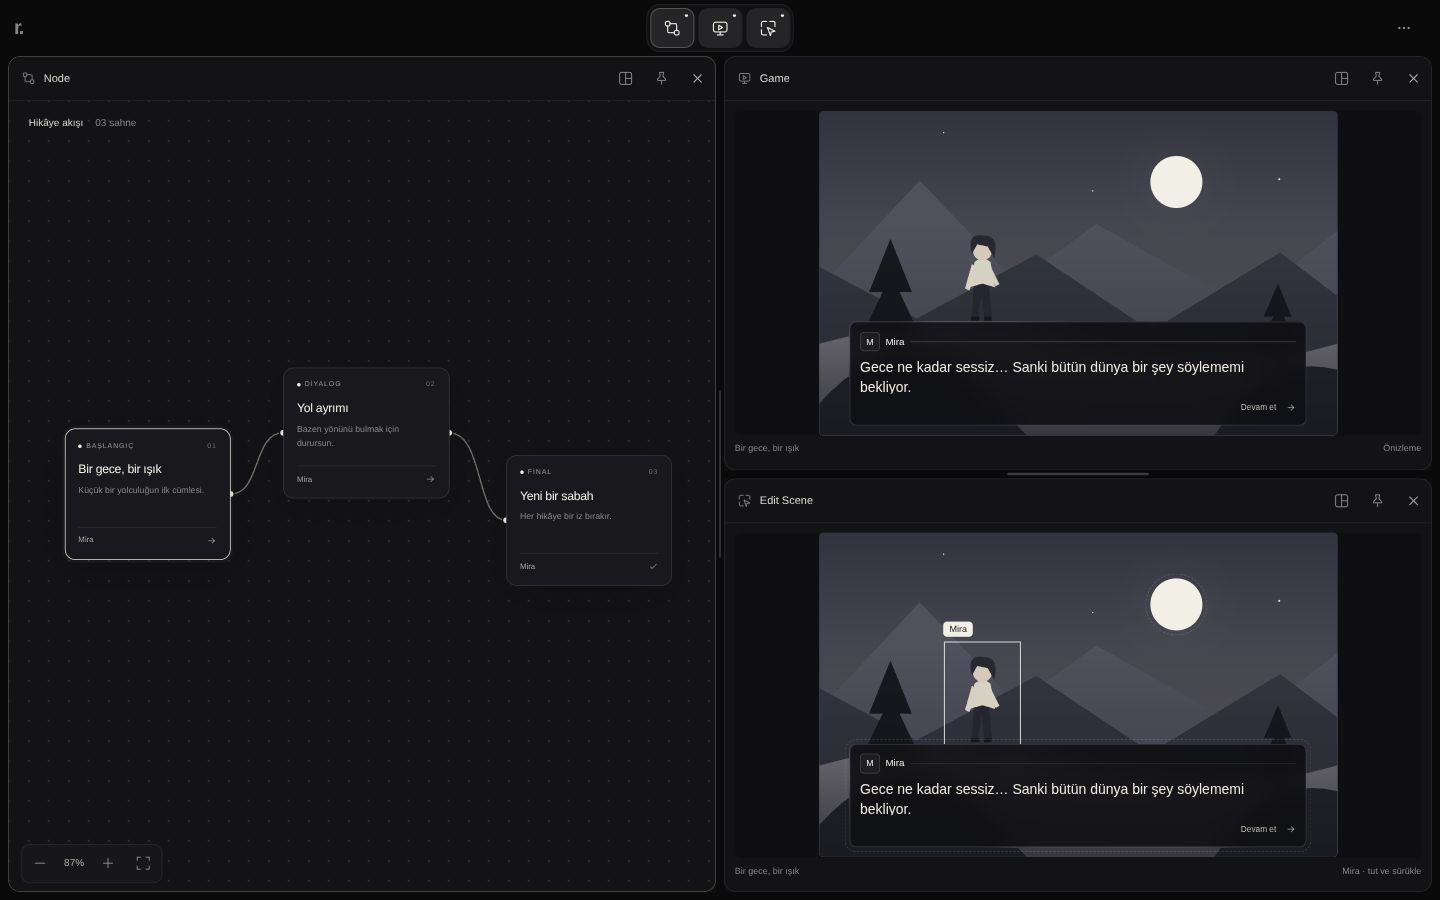
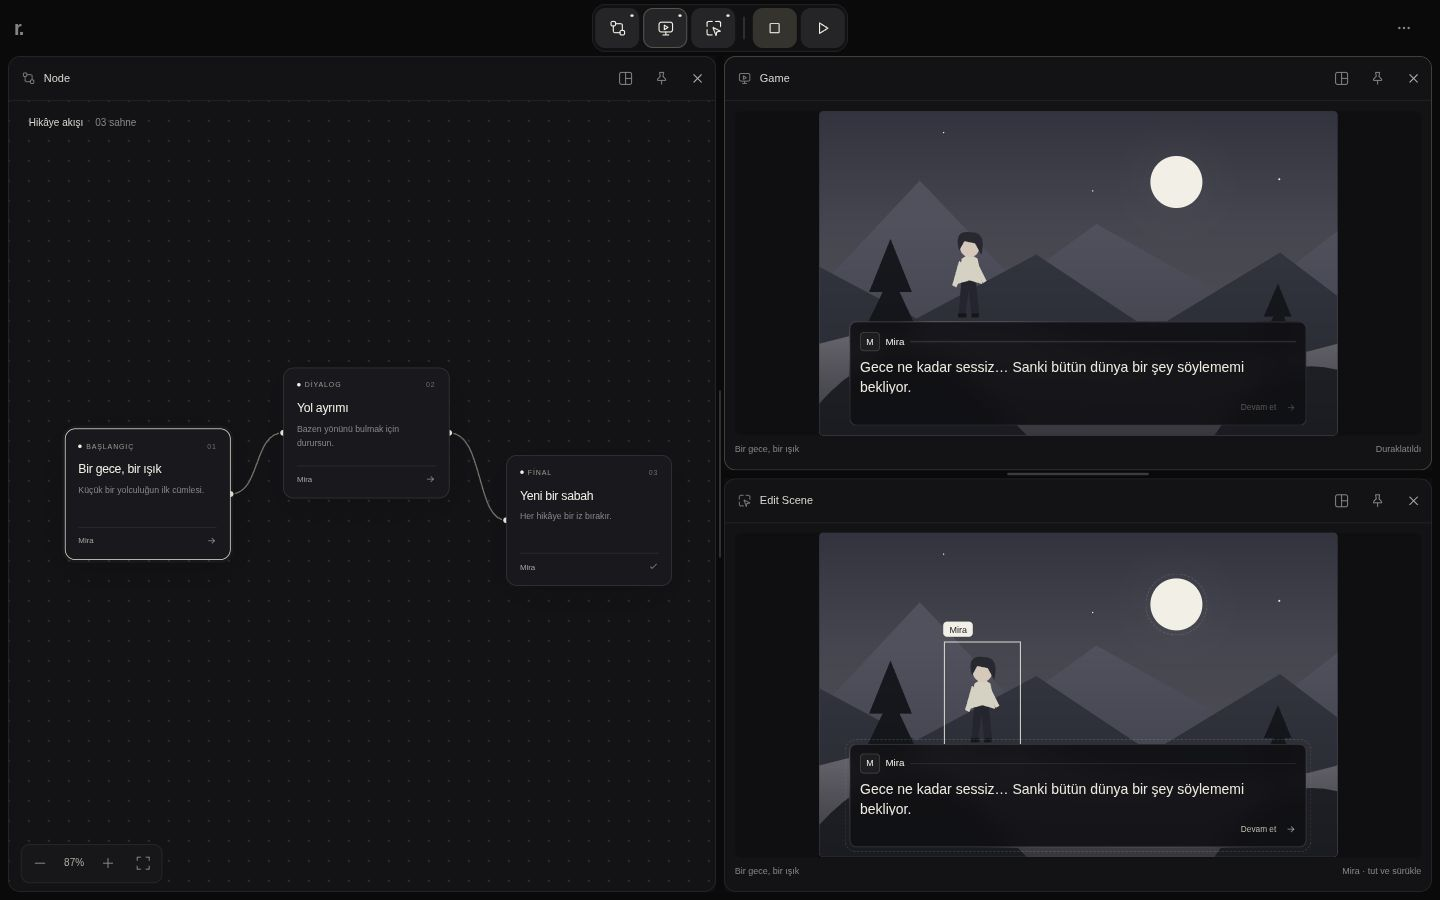
Add workspace toggles and start pause stop preview controls

Changed region(s): [[0.4062, 0.0, 0.5, 0.0622], [0.5312, 0.0, 0.5938, 0.0622], [0.6562, 0.2489, 0.6875, 0.3422]]

diff --git a/prototypes/editor-workspace/app.js b/prototypes/editor-workspace/app.js
@@ -1,5 +1,6 @@
-import { initialState, focusView, openView, closeView, togglePin, setCapacity } from './workspace-state.mjs';
+import { initialState, focusView, openView, closeView, toggleView, togglePin, setCapacity } from './workspace-state.mjs';
 import { initialLayout, syncLayout, dockView, resizeSplit } from './layout-state.mjs';
+import { initialPlayback, startPlayback, togglePause, advancePlayback, playbackFrame } from './playback-state.mjs';
 
 const names = { node: 'Node', game: 'Game', edit: 'Edit Scene' };
 const defaults = [
@@ -12,6 +13,7 @@ const objectNames = { moon: 'Ay', character: 'Mira', dialogue: 'Diyalog' };
 const newScenes = () => defaults.map(scene => ({ ...scene, objects: structuredClone(baseObjects) }));
 let scenes = newScenes(), sceneIndex = 0, selectedObject = 'character';
 let state = initialState(), layout = initialLayout(), zoom = 1, toastTimer, gesture = null, placementView = null;
+let playback = initialPlayback(), playbackSceneIndex = 0, lastFrameTime = null;
 const workspace = document.querySelector('#workspace'), dockRoot = document.querySelector('#dock-root');
 const placement = document.querySelector('#placement-menu'), options = document.querySelector('#options-menu');
 const panels = new Map();
@@ -52,7 +54,8 @@ function updateControls() {
   document.querySelectorAll('[data-view]').forEach(button => {
     const view = button.dataset.view, open = state.visible.includes(view), pinned = state.pinned.includes(view);
     button.setAttribute('aria-pressed', String(open));
-    button.setAttribute('aria-label', `${names[view]} ekranı${open ? ', açık' : 'nı aç'}${pinned ? ', sabit' : ''}`);
+    button.setAttribute('aria-label', `${names[view]} ekranını ${open ? 'kapat' : 'aç'}${pinned ? ', sabit' : ''}`);
+    button.title = `${names[view]} · ${open ? 'kapat' : 'aç'}`;
     button.classList.toggle('focused', state.focused === view);
   });
   document.querySelectorAll('[data-capacity]').forEach(button => button.setAttribute('aria-pressed', String(Number(button.dataset.capacity) === state.capacity)));
@@ -63,6 +66,17 @@ function updateControls() {
     pin.setAttribute('aria-label', `${names[view]} penceresinin ${pinned ? 'sabitlemesini kaldır' : 'yerini sabitle'}`);
     pin.title = pinned ? 'Sabitlemeyi kaldır' : 'Pencereyi sabitle';
   }
+  const running = playback.status !== 'stopped', paused = playback.status === 'paused';
+  const play = document.querySelector('#play-toggle'), pause = document.querySelector('#pause-toggle');
+  play.setAttribute('aria-label', running ? 'Oyunu kapat' : 'Oyunu başlat');
+  play.title = running ? 'Oyunu kapat' : 'Oyunu başlat';
+  play.classList.toggle('is-running', running);
+  play.querySelector('use').setAttribute('href', running ? '#i-stop' : '#i-play');
+  pause.disabled = !running;
+  pause.setAttribute('aria-pressed', String(paused));
+  pause.setAttribute('aria-label', paused ? 'Oyuna devam et' : 'Oyunu duraklat');
+  pause.title = paused ? 'Oyuna devam et' : 'Oyunu duraklat';
+  pause.querySelector('use').setAttribute('href', paused ? '#i-play' : '#i-pause');
 }
 function focus(view) { state = focusView(state, view); updateControls(); }
 function treeElement(tree) {
@@ -86,19 +100,24 @@ function render() {
   document.querySelector('#empty-state').hidden = state.visible.length > 0;
   if (active && active !== document.body && active.isConnected) active.focus({ preventScroll: true });
 }
-function updateScene() {
-  const scene = scenes[sceneIndex];
-  for (const view of ['game', 'edit']) {
+function paintScene(view, scene) {
     const panel = panels.get(view);
     panel.querySelector('.scene-title').textContent = scene.title;
     panel.querySelector('.speaker-name').textContent = 'Mira'; panel.querySelector('.dialogue-text').textContent = scene.dialogue;
-    panel.querySelector('.scene-help').textContent = view === 'edit' ? `${objectNames[selectedObject]} · tut ve sürükle` : 'Önizleme';
+    panel.querySelector('.scene-help').textContent = view === 'edit' ? `${objectNames[selectedObject]} · tut ve sürükle` : { stopped:'Önizleme', playing:'Çalışıyor', paused:'Duraklatıldı' }[playback.status];
+    if (view === 'game') {
+      panel.dataset.playback = playback.status;
+      panel.querySelector('[data-continue]').disabled = playback.status === 'paused';
+    }
     for (const [name, object] of Object.entries(scene.objects)) {
       const el = panel.querySelector(`[data-object="${name}"]`);
       el.style.left = `${object.x}%`; el.style.top = `${object.y}%`; el.style.width = `${object.w}%`; el.style.height = `${object.h}%`;
       el.classList.toggle('selected', view === 'edit' && selectedObject === name);
     }
-  }
+}
+function updateScene() {
+  paintScene('game', playbackFrame(playback) ?? scenes[sceneIndex]);
+  paintScene('edit', scenes[sceneIndex]);
   panels.get('node').querySelectorAll('[data-scene]').forEach(node => {
     const index = Number(node.dataset.scene); node.classList.toggle('selected', index === sceneIndex); node.setAttribute('aria-pressed', String(index === sceneIndex));
   });
@@ -209,7 +228,14 @@ workspace.addEventListener('click', event => {
   else if (pin) apply(togglePin(state,pin.dataset.pin));
   else if (menu) showPlacement(menu.dataset.placement,menu);
   else if (node) { sceneIndex = Number(node.dataset.scene); updateScene(); }
-  else if (event.target.closest('[data-continue]') && !event.target.closest('.editable')) { sceneIndex = (sceneIndex+1)%scenes.length; updateScene(); }
+  else if (event.target.closest('[data-continue]') && !event.target.closest('.editable')) {
+    if (playback.status === 'paused') return;
+    if (playback.status === 'playing') {
+      playbackSceneIndex = (playbackSceneIndex+1)%scenes.length;
+      playback = startPlayback(scenes[playbackSceneIndex]); lastFrameTime = null;
+    } else sceneIndex = (sceneIndex+1)%scenes.length;
+    updateScene();
+  }
   else if (zoomButton) { zoom = zoomButton.dataset.zoom==='fit'?1:Math.max(.5,Math.min(2,zoom+(zoomButton.dataset.zoom==='in'?.15:-.15))); fitViews(); }
 });
 workspace.addEventListener('focusin', event => { const panel = event.target.closest('[data-panel]'); if (panel) focus(panel.dataset.panel); });
@@ -227,7 +253,21 @@ workspace.addEventListener('keydown', event => {
     document.querySelector(`[data-divider="${divider.dataset.divider}"]`)?.focus({preventScroll:true});
   }
 });
-document.querySelectorAll('[data-view]').forEach(button => button.addEventListener('click',()=>apply(openView(state,button.dataset.view))));
+document.querySelectorAll('[data-view]').forEach(button => button.addEventListener('click',()=>{ endGesture(true); apply(toggleView(state,button.dataset.view)); }));
+document.querySelector('#play-toggle').addEventListener('click',()=>{
+  endGesture(true);
+  if (playback.status === 'stopped') {
+    const result = openView(state,'game');
+    if (!result.state.visible.includes('game')) { apply(result); return; }
+    playbackSceneIndex = sceneIndex; playback = startPlayback(scenes[sceneIndex]); lastFrameTime = null;
+    apply(result);
+  } else {
+    playback = initialPlayback(); lastFrameTime = null; closeMenus(); updateControls(); updateScene();
+  }
+});
+document.querySelector('#pause-toggle').addEventListener('click',()=>{
+  playback = togglePause(playback); lastFrameTime = null; updateControls(); updateScene();
+});
 document.querySelectorAll('[data-capacity]').forEach(button => button.addEventListener('click',()=>apply(setCapacity(state,Number(button.dataset.capacity)))));
 document.querySelector('#options').addEventListener('click',()=>{ const open=options.hidden; closeMenus(); options.hidden=!open; document.querySelector('#options').setAttribute('aria-expanded',String(open)); });
 placement.addEventListener('click',event=>{
@@ -239,9 +279,18 @@ placement.addEventListener('click',event=>{
 document.addEventListener('pointerdown',event=>{ if (!event.target.closest('.popover,#options,[data-placement]')) closeMenus(); });
 document.addEventListener('keydown',event=>{ if (event.key==='Escape') { endGesture(true); closeMenus(); } });
 document.querySelector('#reset').addEventListener('click',()=>{
-  endGesture(true); scenes=newScenes(); sceneIndex=0; selectedObject='character'; zoom=1; state=initialState(); layout=initialLayout(); closeMenus();
+  endGesture(true); scenes=newScenes(); sceneIndex=0; selectedObject='character'; zoom=1; state=initialState(); layout=initialLayout(); playback=initialPlayback(); lastFrameTime=null; closeMenus();
   panels.get('node').querySelector('.graph-viewport').scrollTop=0; render();
 });
 const observer=new ResizeObserver(fitViews); observer.observe(workspace); observer.observe(panels.get('node').querySelector('.graph-viewport'));
 for (const view of ['game','edit']) observer.observe(panels.get(view).querySelector('.scene-stage-wrap'));
 render();
+function animate(timestamp) {
+  if (playback.status === 'playing' && lastFrameTime !== null) {
+    playback = advancePlayback(playback, Math.min(.1, (timestamp-lastFrameTime)/1000));
+    paintScene('game', playbackFrame(playback));
+  }
+  lastFrameTime = timestamp;
+  requestAnimationFrame(animate);
+}
+requestAnimationFrame(animate);

diff --git a/prototypes/editor-workspace/index.html b/prototypes/editor-workspace/index.html
@@ -14,6 +14,9 @@
     <symbol id="i-edit" viewBox="0 0 24 24"><path d="M10 3H5a2 2 0 0 0-2 2v5m0 4v5a2 2 0 0 0 2 2h5M14 3h5a2 2 0 0 1 2 2v5m-10 1 10 5-5 1-1 5Z"/></symbol>
     <symbol id="i-pin" viewBox="0 0 24 24"><path d="m9 3 6 0-1 6 4 4v2H6v-2l4-4-1-6ZM12 15v6"/></symbol>
     <symbol id="i-close" viewBox="0 0 24 24"><path d="m6 6 12 12M18 6 6 18"/></symbol>
+    <symbol id="i-play" viewBox="0 0 24 24"><path d="m8 5 11 7-11 7Z"/></symbol>
+    <symbol id="i-stop" viewBox="0 0 24 24"><rect x="6" y="6" width="12" height="12" rx="1"/></symbol>
+    <symbol id="i-pause" viewBox="0 0 24 24"><path d="M8 5v14M16 5v14"/></symbol>
     <symbol id="i-arrow" viewBox="0 0 24 24"><path d="M5 12h14m-6-6 6 6-6 6"/></symbol>
     <symbol id="i-plus" viewBox="0 0 24 24"><path d="M12 5v14M5 12h14"/></symbol>
     <symbol id="i-minus" viewBox="0 0 24 24"><path d="M5 12h14"/></symbol>
@@ -33,6 +36,9 @@
       <button class="view-button" data-view="node" aria-label="Node ekranını aç" title="Node"><svg><use href="#i-node"/></svg><i></i></button>
       <button class="view-button" data-view="game" aria-label="Game ekranını aç" title="Game"><svg><use href="#i-game"/></svg><i></i></button>
       <button class="view-button" data-view="edit" aria-label="Edit Scene ekranını aç" title="Edit Scene"><svg><use href="#i-edit"/></svg><i></i></button>
+      <span class="toolbar-divider" aria-hidden="true"></span>
+      <button class="view-button playback-button" id="play-toggle" aria-label="Oyunu başlat" title="Oyunu başlat"><svg aria-hidden="true"><use href="#i-play"/></svg></button>
+      <button class="view-button playback-button" id="pause-toggle" aria-label="Oyunu duraklat" title="Oyunu duraklat" disabled><svg aria-hidden="true"><use href="#i-pause"/></svg></button>
     </nav>
     <button class="icon-button" id="options" aria-label="Çalışma alanı seçenekleri" aria-expanded="false" aria-controls="options-menu" title="Seçenekler"><svg><use href="#i-more"/></svg></button>
     <div class="options-menu popover" id="options-menu" hidden>

diff --git a/prototypes/editor-workspace/style.css b/prototypes/editor-workspace/style.css
@@ -10,3 +10,5 @@
 .panel{container-type:inline-size}.panel-title{flex:1}.panel-actions{display:flex;flex-shrink:0;align-items:center}.panel-actions .icon-button{cursor:pointer}.close-button{color:#b1afa7}.close-button:hover{background:#3a2929;color:#fff}.pin-button[aria-pressed="true"]{color:var(--bone);background:#f2efe60b}.pin-button[aria-pressed="true"] svg{fill:#f2efe625}.empty-state{position:absolute;inset:0;display:flex;flex-direction:column;align-items:center;justify-content:center;gap:14px;color:var(--muted);background:#0e0e10;font-size:12px;pointer-events:none}.empty-state svg{width:26px;height:26px;color:#5c5b57}
 @container(max-width:220px){.panel-actions .pin-button{display:none}}
 @container(max-width:120px){.panel-actions .placement-button{display:none}}
+.toolbar-divider{width:1px;height:22px;background:#37373b;align-self:center;margin:0 4px}.playback-button.is-running{color:var(--bone);background:#34332e}.playback-button:disabled{opacity:.3;cursor:default}.playback-button:disabled:hover{background:transparent}.continue-button:disabled{opacity:.4;cursor:default}
+@media(max-width:360px){.brand-mark{display:none}.app-header{grid-template-columns:1fr 44px}.view-switcher{justify-self:center;gap:2px}.toolbar-divider{margin:0 2px}}

diff --git a/prototypes/editor-workspace/README.md b/prototypes/editor-workspace/README.md
@@ -13,10 +13,19 @@ Tarayıcı: `http://127.0.0.1:4173`.
 
 - **Node:** örnek hikâye akışı ve sahne seçimi.
 - **Game:** oyun sahnesinin önizlemesi.
-- **Edit Scene:** Game ile aynı sahnenin doğrudan düzenlenebilir görünümü. Ay, Mira ve diyalog kutusu tutulup sürüklenebilir; konumları Game'e anında yansır. Seçili obje ok tuşlarıyla da taşınabilir; Shift adımı büyütür.
+- **Edit Scene:** sahnenin doğrudan düzenlenebilir görünümü. Ay, Mira ve diyalog kutusu tutulup sürüklenebilir; oyun çalışmıyorken konumları Game'e anında yansır. Seçili obje ok tuşlarıyla da taşınabilir; Shift adımı büyütür.
 
 Edit Scene, inspector formu değildir. Inspector için ayrı bir kullanıcı tasarımı bekleniyor.
-Üst alan üç ekran simgesi ve küçük bir seçenek düğmesinden oluşur. Proje çubuğu, tasarım rozeti ve alt bilgi çubuğu kaldırıldı.
+Üstte üç ekran simgesi, yanlarında başlat/kapat ve duraklat/devam et; sağda küçük seçenek düğmesi var.
+
+## Oynatma
+
+- **▶ Başlat:** seçili sahnenin kopyasını oynatır, Game penceresini açar. Aynı düğme **■ Oyunu kapat** olur. Mevcut pencere sınırı ve sabitleme kuralları korunur.
+- **Ⅱ Duraklat:** Game'in o anki karesini dondurur. Tekrar tıklamak kaldığı yerden devam eder; bekleme süresi oynatıma eklenmez.
+- Yerel örnekte Mira'nın hafif hareketi ve diyalog yazısının görünmesi oynatımı gösterir. Duraklatınca ikisi de donar; Game'deki Devam et devre dışı kalır.
+- Edit Scene ve Node kullanılabilir. Sahne seçimleri/düzenlemeleri çalışan veya donmuş Game kopyasını değiştirmez. Oyunu kapatınca Game yeniden düzenlenen sahnenin önizlemesini gösterir.
+- Ekran simgesi yalnız pencereyi açar/kapatır; oyunu kapatmak için ■ kullanılır. Oyun kapalıyken duraklat devre dışıdır.
+- Bu, tarayıcı prototipinin örnek oynatımıdır; motor çalıştırılmaz.
 
 ## Pencere yerleşimi
 
@@ -29,7 +38,7 @@ Edit Scene, inspector formu değildir. Inspector için ayrı bir kullanıcı tas
 
 ## Açık pencere sınırı ve sabitleme
 
-- Başlangıçta yalnız Node açık, sınır iki pencere. Üst simge gizli ekranı açar, açık ekranı odaklar.
+- Başlangıçta yalnız Node açık, sınır iki pencere. Üst simge gizli ekranı açar; aynı simgeye tekrar basmak açık ekranı kapatır. Sabit ve son pencere de böyle kapatılabilir.
 - Sağ üst seçenek menüsünde üç pencere seçimi tüm ekranları açar. İkiye dönüş sabit olmayan en eski pencereyi kapatır.
 - Her pencerenin başlığında yerleşim, sabitleme ve görünür **× kapatma** düğmeleri var. Çok dar pencerede sabitleme yerleşim menüsünden de kullanılabilir.
 - **Pencereyi sabitle**, otomatik ekran değiştirmede o pencerenin korunmasını sağlar. Kullanıcı sabit pencereyi bizzat taşıyabilir veya × ile kapatabilir.
@@ -39,14 +48,15 @@ Edit Scene, inspector formu değildir. Inspector için ayrı bir kullanıcı tas
 
 ## Doğrulama — 2026-10-04
 
-15 durum testi: kapasite/sabitleme, sabit ve son pencereyi elle kapatma, boş alandan yeniden açma, dört yönde iç içe yerleştirme, aynı konumu devralma, oran sınırları, mobil başlangıç ve 1000 karma işlemde pencere tekilliği ile alanların çakışmaması.
+21 durum testi: pencere kuralları ve 1000 karma işlemde alanların çakışmamasına ek olarak üst simgeyle kapatma, oynatma kopyasının bağımsızlığı, hareket/yazının donması, devam etme ve yeniden başlatma.
 
 ```sh
 node --test prototypes/editor-workspace/*.test.mjs
 ```
 
 Son düzeltmede masaüstü ve 390×844 görünümde başlığı başka pencerenin ortasına bırakma kontrol edildi; sonuçta pencerelerin gerçek DOM alanları çakışmadı. Bölme boyutlandırma ve dört yönlü yerleşim menüsü çalışıyor. Kapatma, sabitleme ve üst simgeden yeniden açma korunuyor.
-Bu kontrol gerçek mobil cihaz kabulü değildir. Game/Edit Scene ortak obje konumları ve klavyeyle obje taşıma önceki sürümde doğrulandı; bu değişiklik sahne düzenleme davranışını değiştirmez.
+Yeni oynatma kontrolleri masaüstünde doğrulandı: başlat/kapat dönüşümü, duraklatılan karenin Node sahne seçimi değişse bile aynı kalması, kaldığı yerden devam ve kapatınca düzenleme önizlemesine dönüş. Üst simgeden son pencereyi ve Game'i kapatma da doğrulandı. 320×740 görünümde beş üst düğme ve seçenekler taşmadan sığıyor; 390×844 oynatma/duraklatma önizlemesi kaydedildi.
+Bu kontrol gerçek mobil cihaz kabulü değildir.
 
 Siyah/kemik beyazı paleti mevcut KARAR-0 kararından gelir. SVG sahne yereldir; harici font, resim, API veya motor bağlantısı yoktur. Örnek veri sayfa yenilenince sıfırlanır.
 
